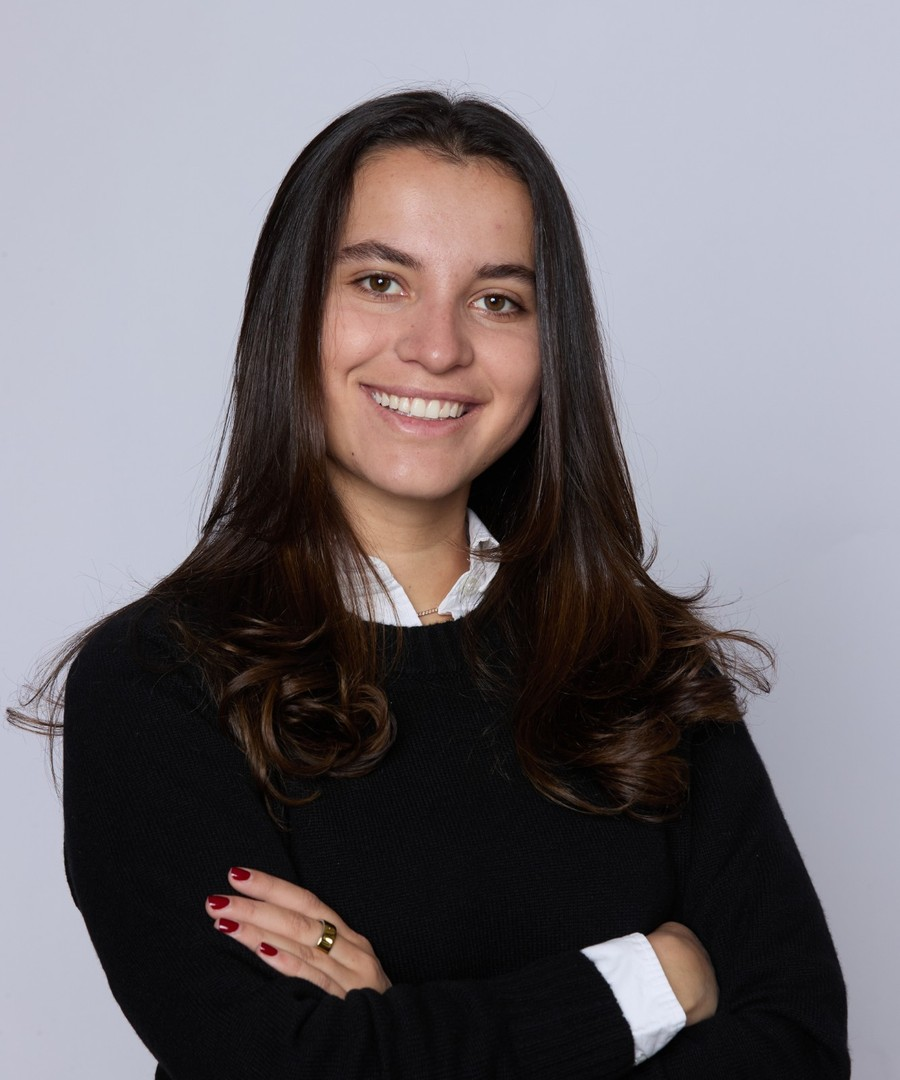
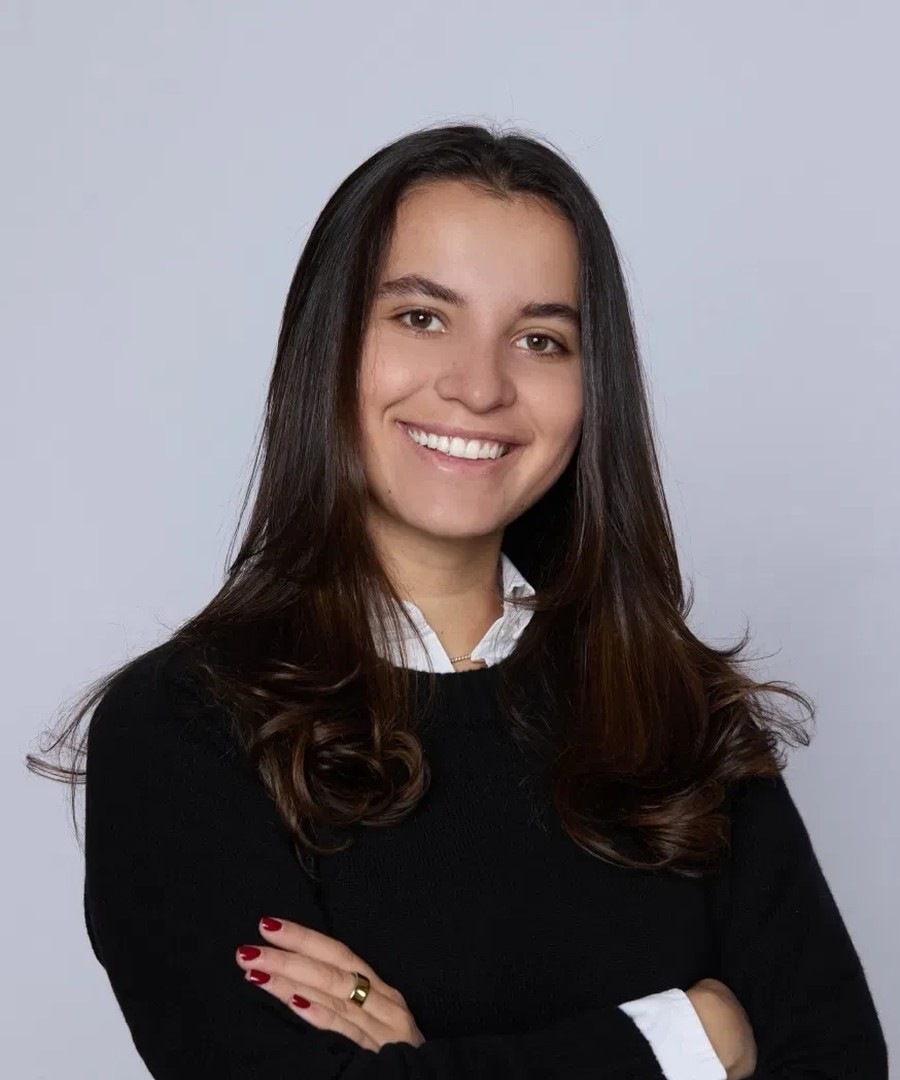
Corrected headshot, Lola's role, board locations
- Maria Paz headshot replaced with the intended portrait, cropped to
  the card's 5:6 ratio
- Lola is High School Teacher at Regis High School; Regis comes out of
  her credential list now that it is her current role, Bold Charter
  School stays as prior experience
- Locations restored under each title: Madrid for Oscar, New York City
  for Maria Paz and Lola, Bogota for Cipriano, Mateo and Christopher

diff --git a/src/data/team.ts b/src/data/team.ts
@@ -6,6 +6,8 @@ export type TeamMember = {
   /** Shows a "Founder" badge next to the name */
   founder?: boolean
   org: L
+  /** Where they are based */
+  city: string
   /** Industry tag shown on the card */
   industry: L
   /** Career and academic credentials, shown as a meta line */
@@ -20,6 +22,7 @@ export const BOARD: TeamMember[] = [
     slug: "oscar-cabrera",
     name: "Oscar Cabrera",
     org: { en: "Former President, BBVA Colombia", es: "Expresidente, BBVA Colombia" },
+    city: "Madrid",
     industry: { en: "Finance", es: "Finanzas" },
     credentials: ["Universidad Complutense de Madrid", "BBVA"],
     interviewStyle: {
@@ -31,6 +34,7 @@ export const BOARD: TeamMember[] = [
     slug: "cipriano-echavarria",
     name: "Cipriano Echavarría",
     org: { en: "Founder & CEO, Palomma", es: "Fundador y CEO, Palomma" },
+    city: "Bogotá",
     industry: { en: "Technology", es: "Tecnología" },
     credentials: ["Duke University", "Morgan Stanley", "Y Combinator", "Forbes 30 Under 30"],
     interviewStyle: {
@@ -42,6 +46,7 @@ export const BOARD: TeamMember[] = [
     slug: "mateo-mendoza",
     name: "Mateo Mendoza",
     org: { en: "Founder & Partner, Mendoza Abogados", es: "Fundador y Socio, Mendoza Abogados" },
+    city: "Bogotá",
     industry: { en: "Law", es: "Derecho" },
     credentials: ["Universidad de los Andes", "NYU", "Allen & Overy"],
     interviewStyle: {
@@ -54,6 +59,7 @@ export const BOARD: TeamMember[] = [
     name: "Maria Paz Rios",
     founder: true,
     org: { en: "Chief of Staff, Sequence Holdings", es: "Chief of Staff, Sequence Holdings" },
+    city: "New York City",
     industry: { en: "Finance", es: "Finanzas" },
     credentials: ["Duke University", "Goldman Sachs", "Blackstone", "Sequence Holdings"],
     interviewStyle: {
@@ -64,9 +70,10 @@ export const BOARD: TeamMember[] = [
   {
     slug: "lola-sanchez",
     name: "Lola Sanchez",
-    org: { en: "Associate Principal, Bold Charter School", es: "Subdirectora, Bold Charter School" },
+    org: { en: "High School Teacher, Regis High School", es: "Profesora de bachillerato, Regis High School" },
+    city: "New York City",
     industry: { en: "Education", es: "Educación" },
-    credentials: ["Duke University", "Teach For America", "Bold Charter School", "Regis High School"],
+    credentials: ["Duke University", "Teach For America", "Bold Charter School"],
     interviewStyle: {
       en: "Warm and reflective. She asks about moments of failure and feedback, looking for self-awareness and a genuine love of learning.",
       es: "Cálida y reflexiva. Pregunta por momentos de fracaso y retroalimentación, buscando autoconocimiento y un amor genuino por aprender.",
@@ -76,6 +83,7 @@ export const BOARD: TeamMember[] = [
     slug: "christopher-weisz",
     name: "Christopher Weisz",
     org: { en: "Managing Director & Partner, BCG", es: "Managing Director y Socio, BCG" },
+    city: "Bogotá",
     industry: { en: "Technology / Consulting", es: "Tecnología / Consultoría" },
     credentials: ["Georgetown University", "Boston Consulting Group"],
     interviewStyle: {

diff --git a/src/pages/Team.tsx b/src/pages/Team.tsx
@@ -34,6 +34,9 @@ function MemberCard({ member, delay }: { member: TeamMember; delay: number }) {
         <div className="text-meta font-semibold text-ink/80 mt-1 break-words md:min-h-[2.6em]">
           {t(member.org)}
         </div>
+        <div className="text-meta uppercase tracking-widest text-muted mt-1.5">
+          {member.city}
+        </div>
         {member.credentials.length > 0 && (
           <div className="text-meta text-muted mt-2.5 leading-relaxed">
             {/* Real spaces around the dot keep "Blackstone · Sequence" breakable */}
